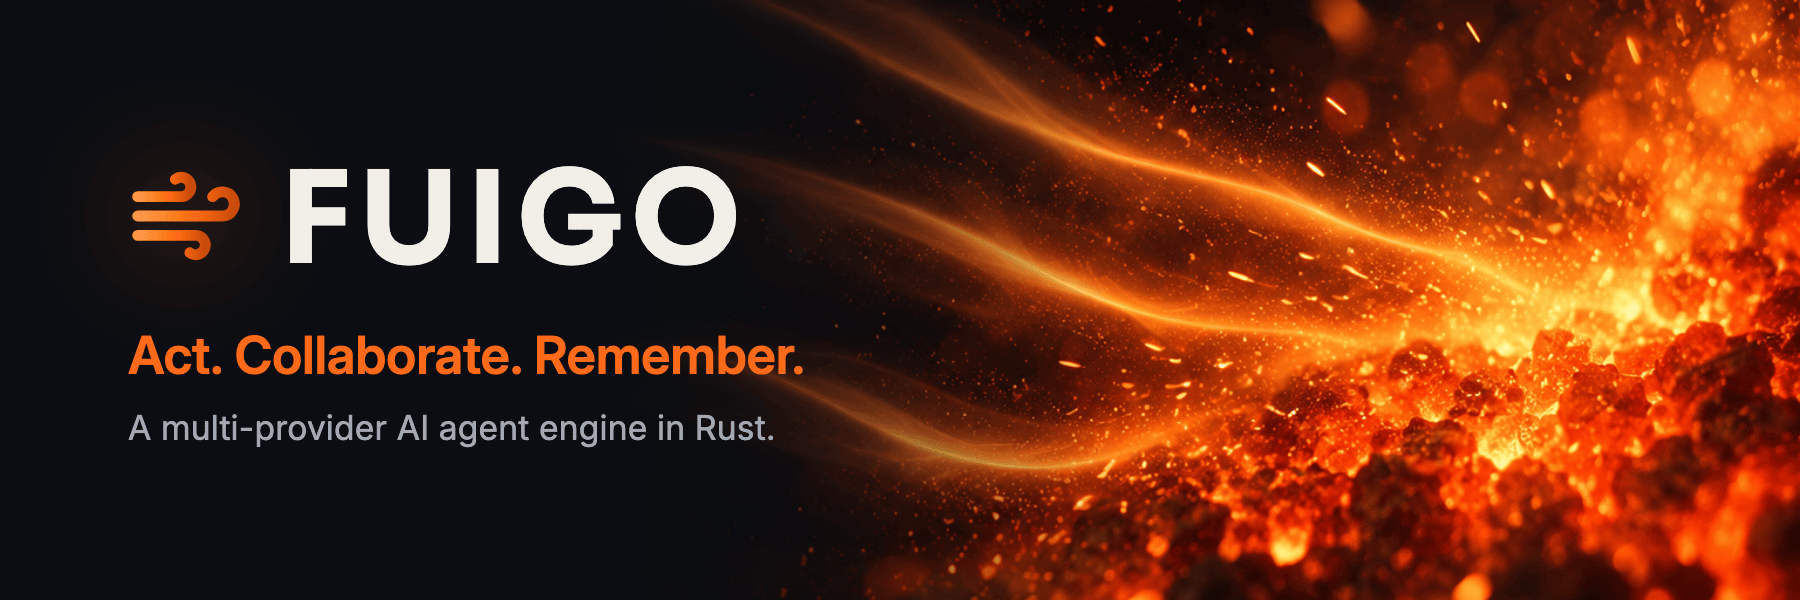
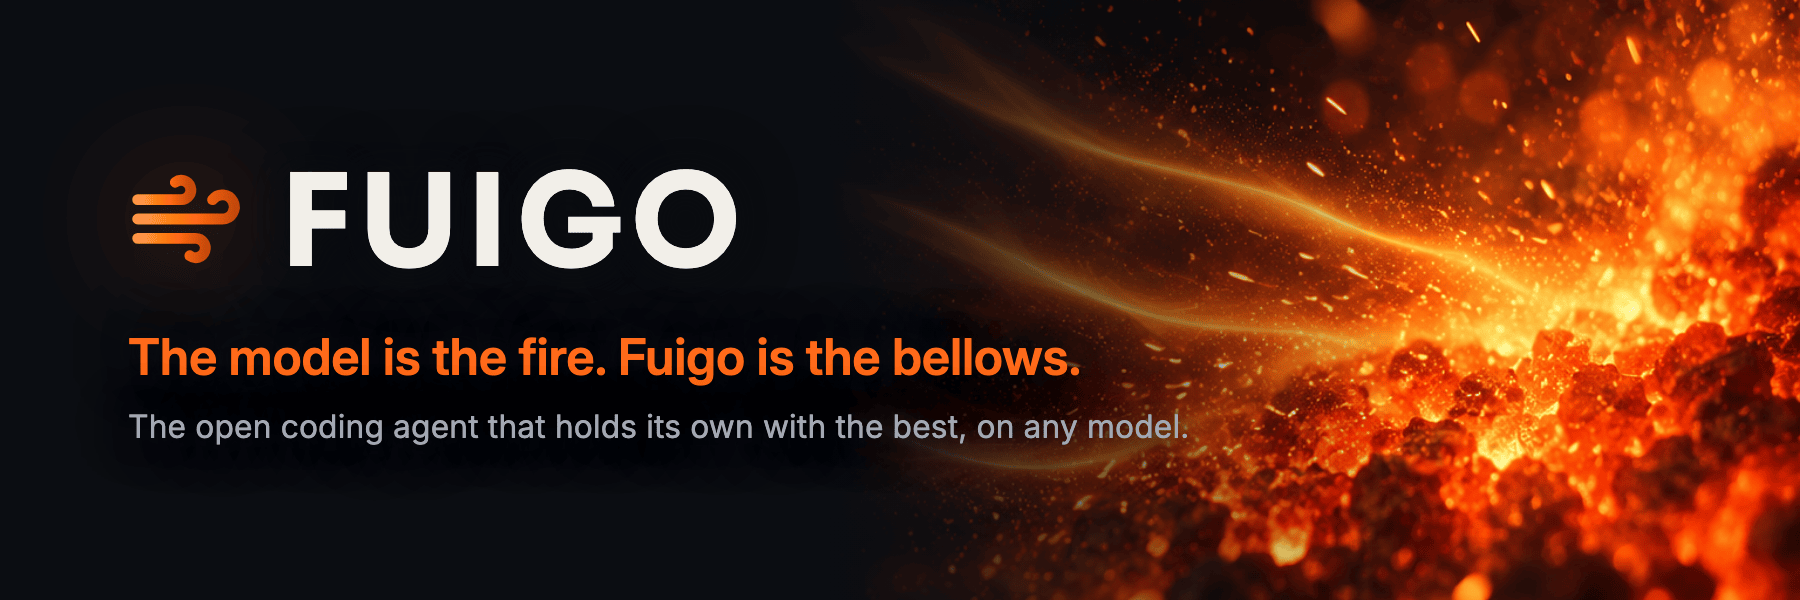
Docs: headline, published benchmark, large badges, bellows tagline
Opens the README with a benchmark-backed hook, publishes docs/benchmark.md, adds large badges and the bellows tagline.

diff --git a/README.md b/README.md
@@ -3,18 +3,31 @@
 <picture>
   <source media="(prefers-color-scheme: dark)" srcset="docs/assets/brand/banner-dark.png">
   <source media="(prefers-color-scheme: light)" srcset="docs/assets/brand/banner-light.png">
-  <img alt="Fuigo. Act. Collaborate. Remember. A multi-provider AI agent engine in Rust." src="docs/assets/brand/banner-dark.png" width="900">
+  <img alt="Fuigo. The model is the fire. Fuigo is the bellows." src="docs/assets/brand/banner-dark.png" width="900">
 </picture>
 
-**A multi-provider AI agent engine in Rust: one runtime, used from the terminal, from scripts, or inside your own application.**
+# The open coding agent that holds its own with the best, on any model.
 
-[![npm version](https://img.shields.io/npm/v/fuigo?style=flat-square&color=FF6A1A&label=npm)](https://www.npmjs.com/package/fuigo)
-[![npm downloads](https://img.shields.io/npm/dw/fuigo?style=flat-square&color=C94A0A)](https://www.npmjs.com/package/fuigo)
-[![release build](https://img.shields.io/github/actions/workflow/status/FerroxLabs/fuigo/release.yml?style=flat-square&label=release)](https://github.com/FerroxLabs/fuigo/actions/workflows/release.yml)
-[![license](https://img.shields.io/github/license/FerroxLabs/fuigo?style=flat-square)](LICENSE)
-[![ACP](https://img.shields.io/badge/ACP-compatible-5B9CF6?style=flat-square)](crates/codegen/fuigo-pager/docs/user-guide/15-agent-mode.md)
+[![npm](https://img.shields.io/npm/v/fuigo?style=for-the-badge&labelColor=1B1B20&color=FF6A1A&label=npm)](https://www.npmjs.com/package/fuigo)
+[![downloads](https://img.shields.io/npm/dw/fuigo?style=for-the-badge&labelColor=1B1B20&color=FF6A1A&label=downloads)](https://www.npmjs.com/package/fuigo)
+[![any model](https://img.shields.io/badge/models-any%20model-FF6A1A?style=for-the-badge&labelColor=1B1B20)](docs/connect-a-model.md)
+[![runs on macOS, Linux, Windows](https://img.shields.io/badge/runs%20on-macOS%20%C2%B7%20Linux%20%C2%B7%20Windows-FF6A1A?style=for-the-badge&labelColor=1B1B20)](https://github.com/FerroxLabs/fuigo/releases)
+[![ACP compatible](https://img.shields.io/badge/ACP-compatible-FF6A1A?style=for-the-badge&labelColor=1B1B20)](crates/codegen/fuigo-pager/docs/user-guide/15-agent-mode.md)
+[![license](https://img.shields.io/github/license/FerroxLabs/fuigo?style=for-the-badge&labelColor=1B1B20&color=FF6A1A)](LICENSE)
 
-[Install](#install) · [Why Fuigo](#why-fuigo) · [Three ways to work](#three-ways-to-work) · [Features](#features) · [Models](#model-routes) · [Memory](#memory) · [Docs](#documentation) · [Release notes](docs/release-notes-1.0.30.md)
+</div>
+
+On 24 hard, real-world engineering tasks, with every agent on the same model, Fuigo solved **43 of 48** runs. Claude Code solved 41 and Grok Build 41. Fuigo did it for **18–27% less per solved task**, with no timeouts. ([How we tested](docs/benchmark.md))
+
+It isn't tied to one model company. Bring an OpenAI or Anthropic key, sign in with your ChatGPT subscription, or run a model on your own machine. It reads your code, edits it, runs your tests, and **asks before it changes a file or runs a command**. Kernel sandboxing, outbound destination checks and folder trust are built in, not bolted on. It remembers what it learned. And it is one engine: the same agent runs in your terminal, unattended in CI, or inside your product. It is the engine behind [Murage](https://github.com/FerroxLabs/murage)'s AI workforce.
+
+Apache-2.0. Yours to own.
+
+<div align="center">
+
+[![Install: npm i -g fuigo](https://img.shields.io/badge/install-npm%20i%20--g%20fuigo-FF6A1A?style=for-the-badge&labelColor=1B1B20&logo=npm&logoColor=white)](#install)
+
+[Install](#install) · [Why Fuigo](#why-fuigo) · [Three ways to work](#three-ways-to-work) · [Features](#features) · [Models](#model-routes) · [Memory](#memory) · [Benchmark](docs/benchmark.md) · [Docs](#documentation) · [Release notes](docs/release-notes-1.0.30.md)
 
 </div>
 

diff --git a/docs/benchmark.md b/docs/benchmark.md
@@ -1,0 +1,41 @@
+# Benchmark: Fuigo, Claude Code and Grok Build on the same model
+
+Run 2026-10-13, re-graded 2026-10-14. Fuigo 1.0.26, Claude Code 2.1.287, Grok Build 1.0.45 (commit 2bdd1d6a).
+
+## Result
+
+| Agent | Solved | Pass rate | Cost per solved task | Timeouts |
+| --- | --- | --- | --- | --- |
+| **Fuigo 1.0.26** | **43 / 48** | 89.6% | **$0.29** | 0 |
+| Claude Code 2.1.287 | 41 / 48 | 85.4% | $0.36 | 1 |
+| Grok Build 1.0.45 | 41 / 48 | 85.4% | $0.40 | 2 |
+
+**How to read it.** A two-task difference is inside the statistical noise at 48 runs (exact McNemar test on matched pairs, p ≥ 0.73), so on solve rate the three agents are level, with Fuigo slightly ahead. Cost is the clear difference: Fuigo spent 18–27% less per solved task, and it was the only agent with no timeouts.
+
+## What was tested
+
+- **24 tasks, each run twice per agent** (48 runs per agent). They are private, unpublished engineering tasks taken from real production codebases, so no agent can have seen them in training: 10 bug fixes, 6 features, 4 multi-step orchestration tasks and 4 "trap" tasks whose code contains planted misleading information, such as a stale comment that describes behaviour the code does not have.
+- **Same model for everyone:** every agent ran `claude-sonnet-5-5` through the same metering gateway, which allowed only that model. Hosted tools and web search were off for all three.
+- **Hidden tests decide the result:** the agent never sees the grading tests. After the run, its final working copy is copied into a fresh container, the hidden tests are added, and the task's grader runs with no network. A run passes only if the grader exits 0.
+
+## Conditions
+
+| Item | Setting |
+| --- | --- |
+| Per-run limits | 20 minutes, 200 turns, 400 model calls |
+| Sandbox | container with a read-only root, all capabilities dropped, no network except the model gateway, fresh home directory |
+| Permissions | each agent in its own auto-approve mode, project trusted |
+| Order | the three agents and two repeats interleaved per task in a seeded shuffle |
+| Cost | the gateway's metered cost of every model call, including calls cancelled mid-stream and the agents' own helper calls |
+| Statistics | Wilson 95% intervals per agent, exact McNemar test on the 48 matched pairs, task-clustered bootstrap for the difference in pass rate |
+
+## Re-grade
+
+Ten of the 144 runs (Fuigo 4, Claude Code 4, Grok Build 2) first failed because of a crash in the grading environment, not in the agent's work. Every affected run was graded again in the same rebuilt environment for all three agents; a run counted as a pass only if every re-grade passed. The table above is the corrected result. Before the re-grade the solve counts were Fuigo 39, Claude Code 38 and Grok Build 40.
+
+## Limits
+
+- 24 tasks is a meaningful but small sample; treat the solve rates as "level", not as a ranking.
+- One model was used. Results on other models may differ.
+- The tasks are private, so the run cannot be reproduced exactly by others. This page publishes the method and the totals instead.
+- The run measured Fuigo 1.0.26. We will re-run it on newer versions and update this page.

diff --git a/docs/brand/BRAND.md b/docs/brand/BRAND.md
@@ -94,11 +94,12 @@ Plain, precise, calm. Fuigo describes what it does and lets the screenshots prov
 
 | Candidate | Reads as | Notes |
 | --- | --- | --- |
-| **Act. Collaborate. Remember.** (pick) | The three things the engine does: tools, subagents and ACP, memory | Already in use on the hero; three verbs, three sections of the README, no claim to defend. |
-| One engine. Any model. Every surface. | The multi-provider, three-surface positioning | Accurate but says nothing about memory, which is the real differentiator. Use as a sub-line in long copy. |
+| **The model is the fire. Fuigo is the bellows.** (pick) | The name explained in one line: Fuigo is not the model, it is what makes any model work harder | Ties the brand to the bellows story and to the multi-provider position; the art (air into fire) illustrates it literally. |
+| Act. Collaborate. Remember. | The three things the engine does: tools, subagents and ACP, memory | The previous hero line. Three verbs, no claim to defend; keep for section-level copy and release posts. |
+| One engine. Any model. Every surface. | The multi-provider, three-surface positioning | Accurate but says nothing about memory. Use as a sub-line in long copy. |
 | The agent engine that remembers. | Memory-first | Strong single hook but narrows the product to one feature. |
 
-Pick: **Act. Collaborate. Remember.** It carries forward the existing brand, it is three verbs that map to the engine's three pillars, and nothing in it needs a benchmark to back it up. Descriptor line under it: *A multi-provider AI agent engine in Rust.*
+Pick: **The model is the fire. Fuigo is the bellows.** (approved 2026-10-19). Sub-line under it: *The open coding agent that holds its own with the best, on any model.* The sub-line is a positioning statement, not a benchmark claim; do not attach numbers to it.
 
 ## Assets index
 
